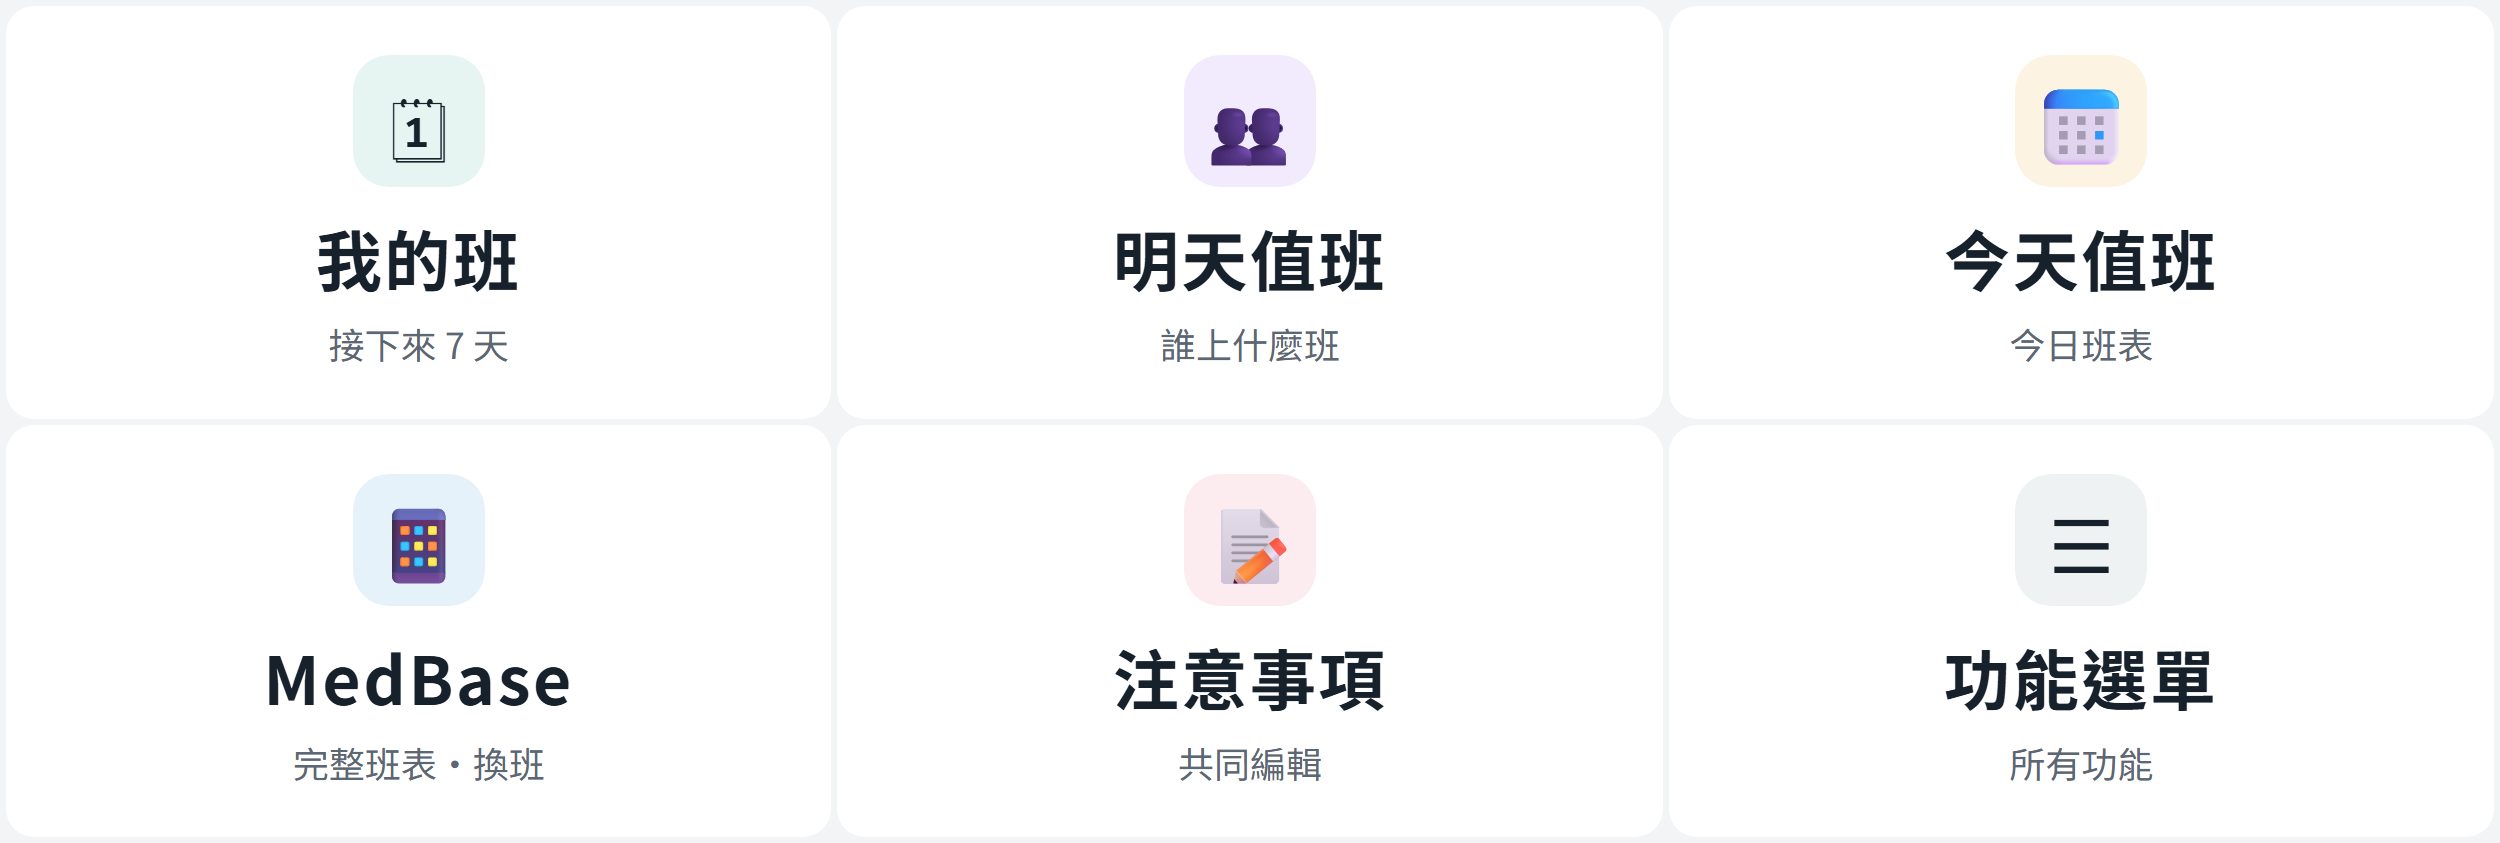
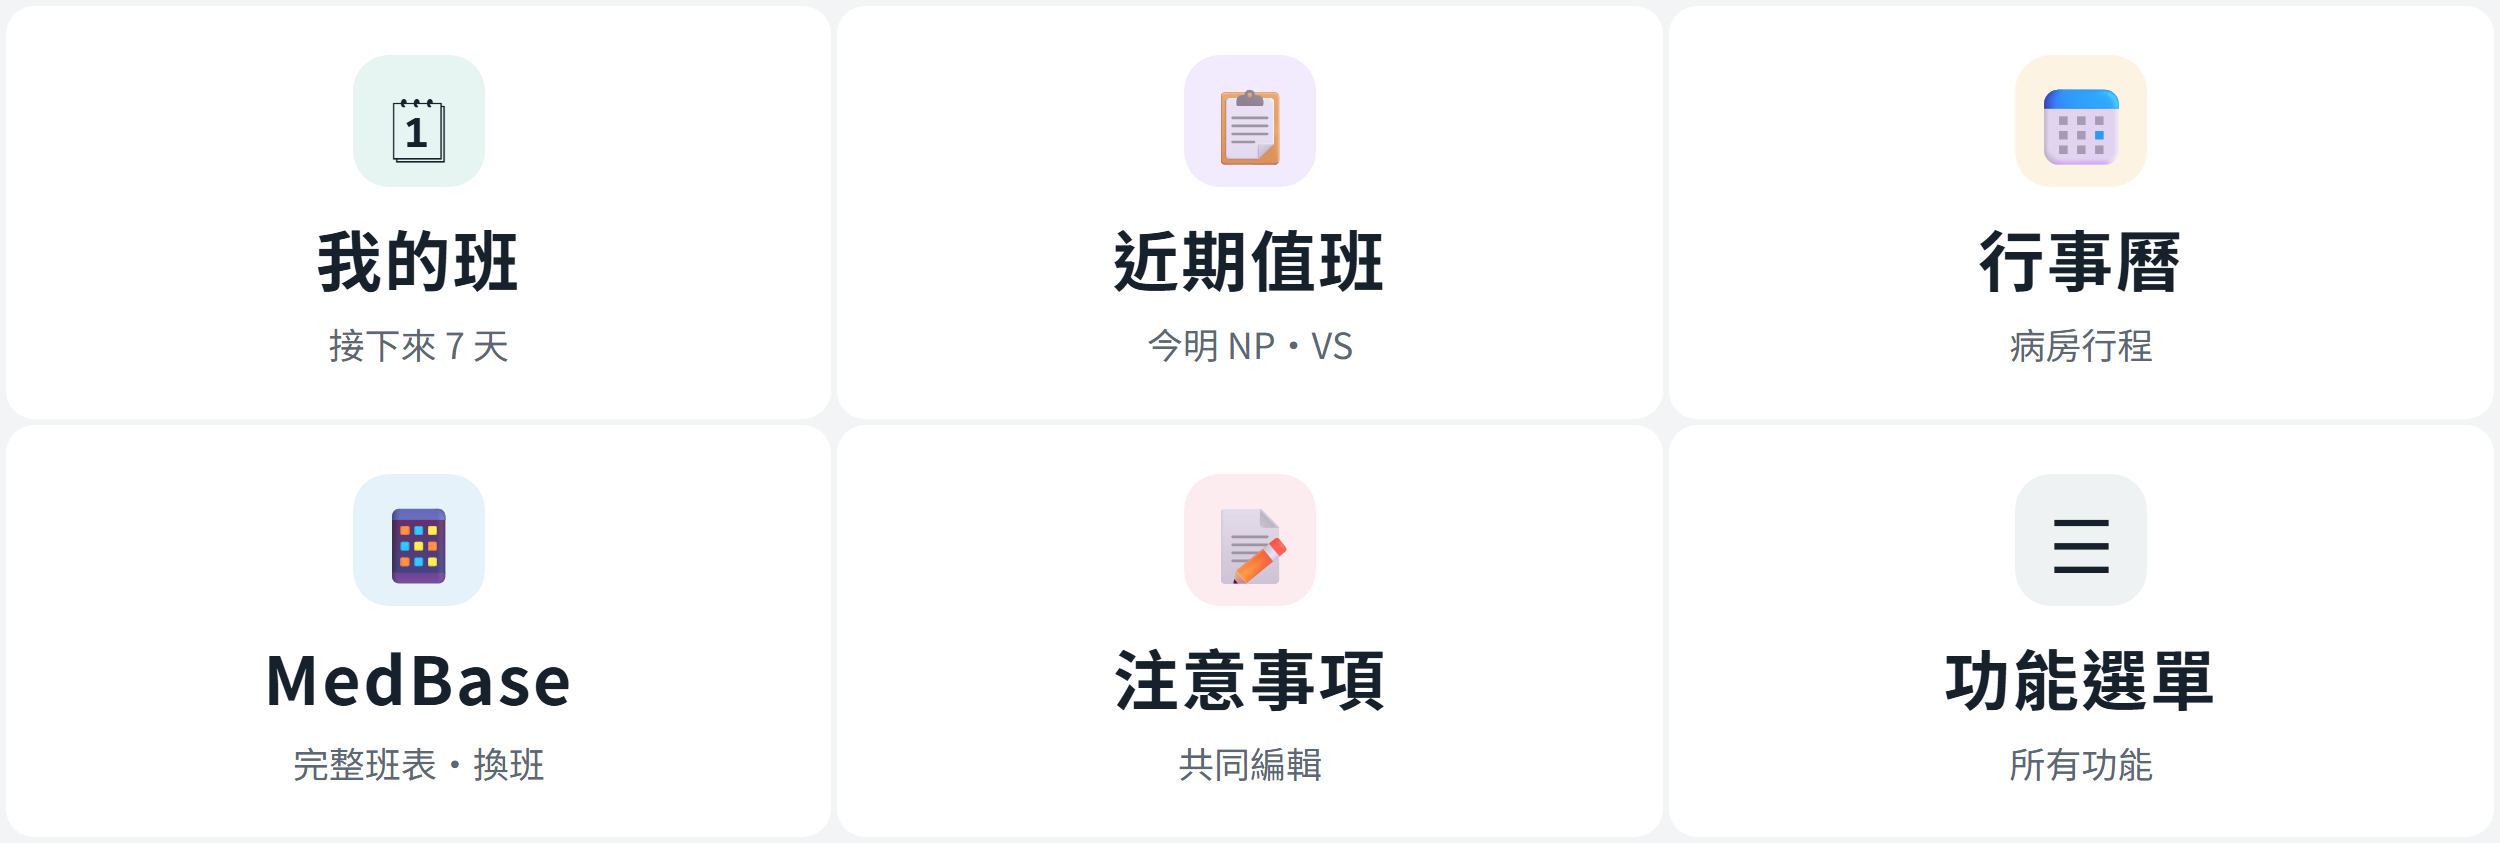
feat: 近期值班 shows today and tomorrow from the NP/VS duty table
Duty queries (近期值班, 今天/明天/後天值班, 誰值班) and the daily reminder now
read MedBase's hospital-wide NP/VS duty table instead of the 9A9B shift
sheet: NP 9A/9B/8A with 白/夜 and extensions, plus VS 總值. It is not
group-specific, so queries no longer need a linked account or group
setting. The main menu and rich menu button becomes 近期值班; the freed
rich-menu cell opens the calendar.

diff --git a/src/medbase.js b/src/medbase.js
@@ -42,31 +42,42 @@ async function callMedbase(action, args = {}) {
 // ----------------------------------------------------
 const shortDate = date => `${Number(date.slice(5, 7))}/${Number(date.slice(8, 10))}（${dayOfWeek(date).slice(1)}）`;
 
-/** "D：甲、乙" per shift, in the order shifts first appear; days off are left out. */
-function formatDuty(items) {
-  const byShift = new Map();
-  for (const { name, shift } of items) {
-    if (/^off$/i.test(shift)) continue;
-    if (!byShift.has(shift)) byShift.set(shift, []);
-    byShift.get(shift).push(name);
-  }
-  if (!byShift.size) return '（沒有排班）';
-  return [...byShift].map(([shift, names]) => `${shift}：${names.join('、')}`).join('\n');
+// The NP/VS duty table (MedBase home page "今日值班"), same rules as MedBase
+// src/shared/duty.ts: NP per ward with 白八/夜八, VS shows 總值 only.
+const NP_WARDS = ['9A', '9B', '8A'];
+const VS_PRIMARY = '總值';
+const SHIFT_LABELS = { 白八: '白', 夜八: '夜' };
+
+/** One day of duty: a line per NP ward ("白 甲 62855｜夜 乙") and the VS on call. */
+async function dutyBlock(date, label) {
+  const { items } = await callMedbase('duty', { date });
+  const head = `【${label} ${shortDate(date)}】`;
+  if (!items.length) return `${head}\n尚無值班資料`;
+  const person = r => `${SHIFT_LABELS[r.shift] ?? r.shift} ${r.name}${r.extension ? ` ${r.extension}` : ''}`.trim();
+  const lines = NP_WARDS.map(ward => {
+    const rows = items.filter(r => r.ward === ward);
+    return `${ward}　${rows.length ? rows.map(person).join('｜') : '未排'}`;
+  });
+  const vs = items.filter(r => r.ward === VS_PRIMARY);
+  lines.push(`VS ${VS_PRIMARY}　${vs.length ? vs.map(r => `${r.name}${r.extension ? ` ${r.extension}` : ''}`).join('、') : '未排'}`);
+  return `${head}\n${lines.join('\n')}`;
 }
 
-async function dutyText(date, group, label) {
-  const r = await callMedbase('day', { date, group });
-  if (!r.published) return `📅 ${label} ${shortDate(date)}\n${Number(date.slice(5, 7))} 月班表尚未發布。`;
-  return `📅 ${label} ${shortDate(date)} 值班（${group}）\n${formatDuty(r.items)}`;
+async function dutyText(offsets) {
+  const today = todayInTaipei();
+  const labels = ['今天', '明天', '後天'];
+  const blocks = await Promise.all(offsets.map(o => dutyBlock(addDays(today, o), labels[o])));
+  return `📋 ${offsets.length > 1 ? '近期' : ''}值班\n\n${blocks.join('\n\n')}`;
 }
 
 // ----------------------------------------------------
 // Text commands (all answered by reply)
 // ----------------------------------------------------
-const DAY_COMMANDS = [
-  { re: /^(今天|今日)(值班|班表|誰值班)?$|^誰值班$|^值班$/, offset: 0, label: '今天' },
-  { re: /^(明天|明日)(值班|班表|誰值班)?$/, offset: 1, label: '明天' },
-  { re: /^後天(值班|班表|誰值班)?$/, offset: 2, label: '後天' }
+const DUTY_COMMANDS = [
+  { re: /^近期值班$|^誰值班$|^值班$/, offsets: [0, 1] },
+  { re: /^(今天|今日)(值班|班表|誰值班)?$/, offsets: [0] },
+  { re: /^(明天|明日)(值班|班表|誰值班)?$/, offsets: [1] },
+  { re: /^後天(值班|班表|誰值班)?$/, offsets: [2] }
 ];
 
 function linkHelp() {
@@ -123,24 +134,13 @@ export async function medbaseCommand(text, source) {
     return { type: 'text', text: '🔒 你的班表已私訊給你。\n若沒有收到，請先將「醫院群組助手」加為好友。' };
   }
 
-  const day = DAY_COMMANDS.find(c => c.re.test(text));
-  if (day) {
-    // The MedBase group configured for this chat, else the asker's own (linked) group.
-    const chatId = source.groupId || source.roomId;
-    const group = (chatId && db.medbase_groups.get(chatId)?.medbase_group)
-      || (userId && db.medbase_links.get(userId)?.medbase_group);
-    if (!group) {
-      return {
-        type: 'text',
-        text: chatId
-          ? `⚙ 這個群組還沒對應 MedBase 排班群組。\n管理者可到管理頁「MedBase 串接」設定；或先綁定自己的 MedBase 帳號，就能直接查詢。\n${MEDBASE_API_URL}/settings`
-          : linkHelp()
-      };
-    }
+  // The duty table is hospital-wide, so it needs neither a linked account nor a group setting.
+  const duty = DUTY_COMMANDS.find(c => c.re.test(text));
+  if (duty) {
     try {
-      return { type: 'text', text: await dutyText(addDays(todayInTaipei(), day.offset), group, day.label) };
+      return { type: 'text', text: await dutyText(duty.offsets) };
     } catch (error) {
-      return { type: 'text', text: `❌ 查詢班表失敗：${error.message}` };
+      return { type: 'text', text: `❌ 查詢值班失敗：${error.message}` };
     }
   }
 
@@ -182,7 +182,7 @@ export async function sendDueReminders(pushMessage, now = new Date()) {
     // Mark first: a failure must not turn into a push every minute.
     db.medbase_groups.markReminded(g.line_group_id, today);
     try {
-      const text = await dutyText(addDays(today, 1), g.medbase_group, '明天');
+      const text = await dutyText([1]);
       await pushMessage(g.line_group_id, { type: 'text', text });
       console.log(`[MedBase] reminder sent to ${g.group_name || g.line_group_id}`);
     } catch (error) {

diff --git a/scripts/richmenu/richmenu.html b/scripts/richmenu/richmenu.html
@@ -46,8 +46,8 @@
 </head>
 <body>
   <div class="cell teal"><div class="icon">🗓</div><div class="label">我的班</div><div class="sub">接下來 7 天</div></div>
-  <div class="cell violet"><div class="icon">👥</div><div class="label">明天值班</div><div class="sub">誰上什麼班</div></div>
-  <div class="cell amber"><div class="icon">📅</div><div class="label">今天值班</div><div class="sub">今日班表</div></div>
+  <div class="cell violet"><div class="icon">📋</div><div class="label">近期值班</div><div class="sub">今明 NP・VS</div></div>
+  <div class="cell amber"><div class="icon">📅</div><div class="label">行事曆</div><div class="sub">病房行程</div></div>
   <div class="cell blue"><div class="icon">📱</div><div class="label">MedBase</div><div class="sub">完整班表・換班</div></div>
   <div class="cell rose"><div class="icon">📝</div><div class="label">注意事項</div><div class="sub">共同編輯</div></div>
   <div class="cell slate"><div class="icon">☰</div><div class="label">功能選單</div><div class="sub">所有功能</div></div>

diff --git a/src/line.js b/src/line.js
@@ -275,7 +275,7 @@ function getMainMenuFlex(sourceId) {
               margin: "md",
               contents: [
                 { type: "button", action: { type: "message", label: "🗓 我的班", text: "我的班" }, style: "secondary", height: "sm" },
-                { type: "button", action: { type: "message", label: "👥 明天值班", text: "明天值班" }, style: "secondary", height: "sm" }
+                { type: "button", action: { type: "message", label: "📋 近期值班", text: "近期值班" }, style: "secondary", height: "sm" }
               ]
             },
             {
